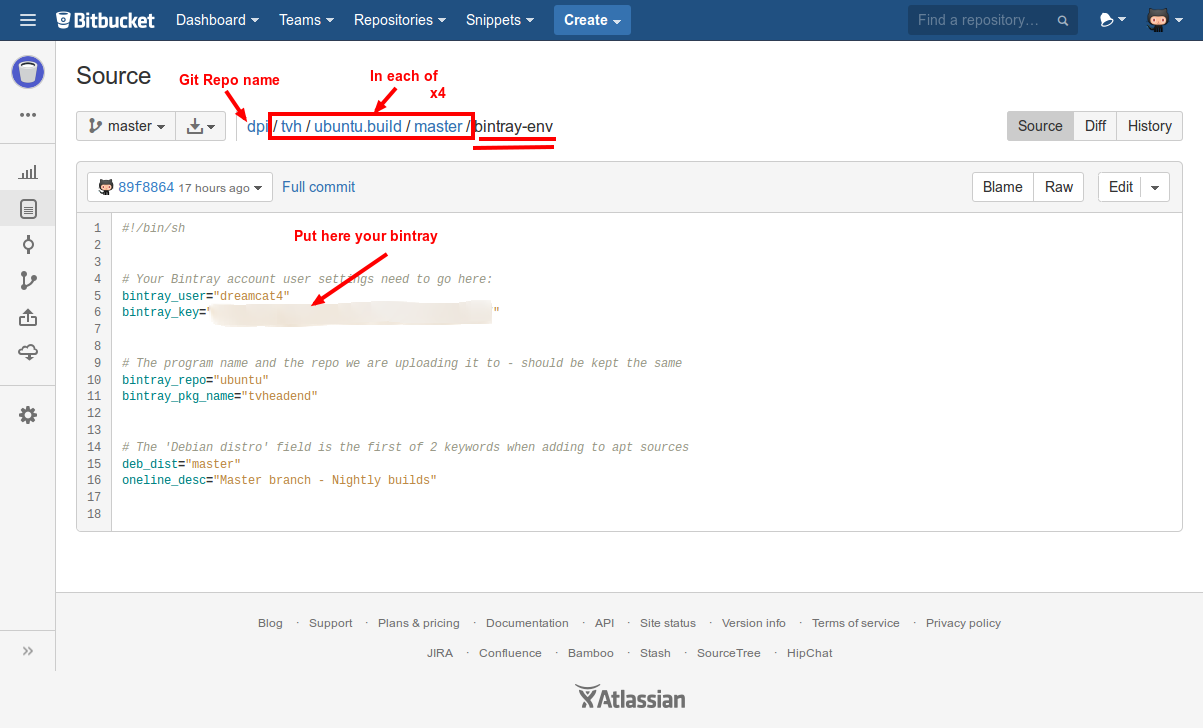
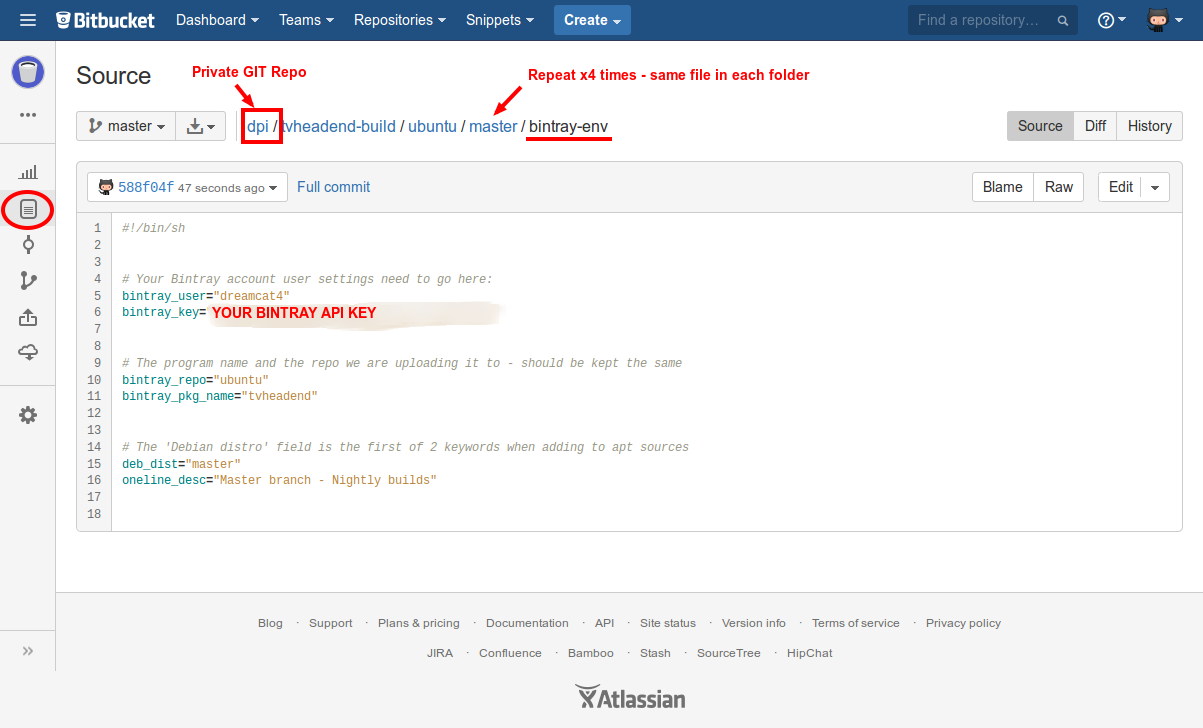
Documentation update.

diff --git a/ubuntu/3. create-private-bitbucket-repo.md b/ubuntu/3. create-private-bitbucket-repo.md
@@ -36,7 +36,8 @@ This is where we will put our build scripts including private bintray API key. T
 
 ### Initialize repo
 
-* Initialize the repository
+* Create the private `dpi` repository on BitBucket.
+* Initialize the private `dpi` repository.
 
 ```sh
 cd ~/
@@ -45,19 +46,19 @@ git init
 git remote add origin git@bitbucket.org:yourBitBucketUsername/dpi.git
 ```
 
-* Copy over `tvh/ubuntu.build` folder from public repo
+* Copy over `ubuntu/` folder from public repo
 
 ```sh
-cd ~/
+cd ~/ && mkdir -p dpi/tvheadend-build
 git clone https://github.com/tvheadend/tvheadend-build
-cp -Rf tvheadend-build/ubuntu dpi/
+cp -Rf tvheadend-build/ubuntu dpi/tvheadend-build/
 ```
 
 ### Put bintray API key into private git repo
 
 * In local working copy of your `dpi` bitbucket private repo
   * Put your bintray usernname and API key into the file `bintray-env` of each build folder
-    * Open `dpi/ubuntu/master/bintray-env` and replace bintray account variables with the values from your own bintray account:
+    * Open `dpi/tvheadend-build/ubuntu/master/bintray-env` and replace bintray account variables with the values from your own bintray account:
 
 ```Dockerfile
 bintray_user="dreamcat4"
